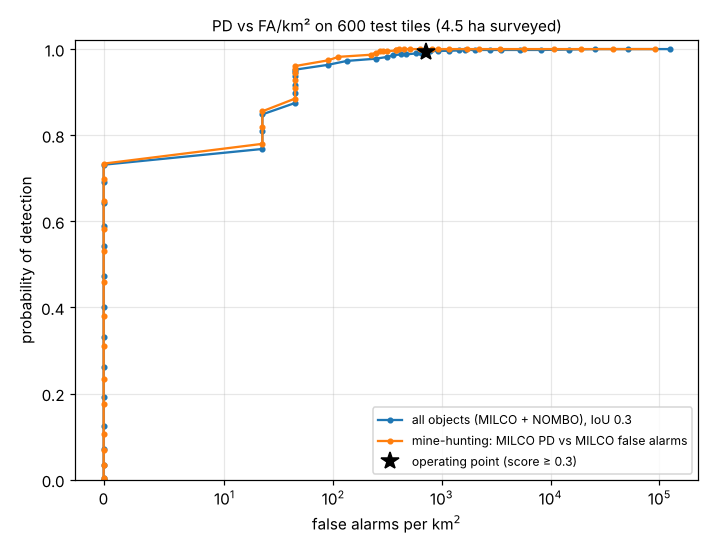
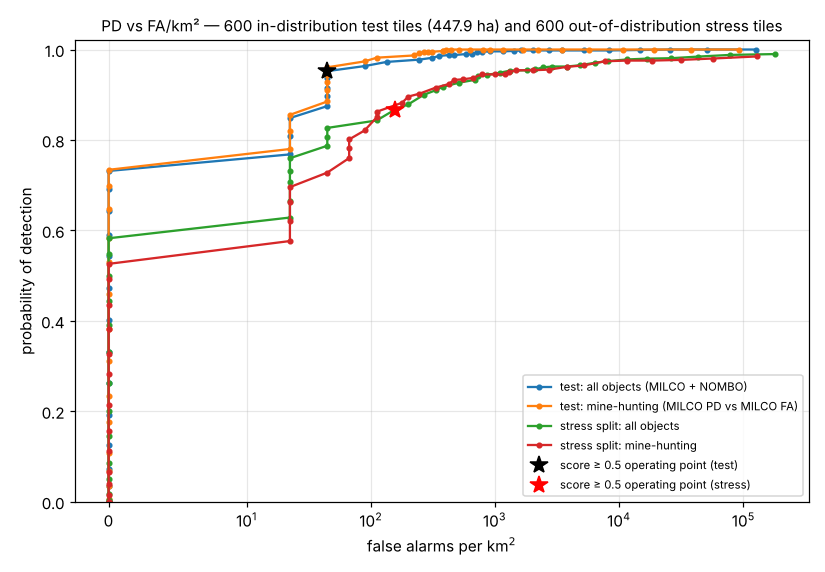
Add 2%-label configs; generalise label-efficiency figure and results tables
Claude-Session: https://claude.ai/code/session_01GVcA4kAFXtfkHbBPyjCxN2

Changed region(s): [[0.0, 0.0309, 0.9846, 0.9891]]

diff --git a/scripts/write_results.py b/scripts/write_results.py
@@ -25,8 +25,6 @@ def fmt(v, nd=3):
 def main():
     base = load("runs/detector_base/eval/metrics.json")
     summ = load("runs/detector_base/summary.json")
-    scratch = load("runs/detector_scratch_10pct/eval/metrics.json")
-    mae10 = load("runs/detector_mae_10pct/eval/metrics.json")
     stream = load("runs/stream/stream_report.json")
     sas = load("assets/sas_demo_metrics.json")
     meta = load("data/sas_synth/dataset_meta.json")
@@ -98,14 +96,21 @@ def main():
         values.update({"hard_map50": f"{hard['mAP@0.50']:.3f}", "hard_pd": f"{op['pd']:.3f}", "hard_fa": f"{op['fa_per_km2']:.0f}",
                        "hard_pd50": f"{hard['pd_fa']['pd'][i]:.3f}", "hard_fa50": f"{hard['pd_fa']['fa_per_km2'][i]:.0f}",
                        "hard_milco_recall": f"{mv['milco_recall']:.3f}", "hard_nombo_rej": f"{mv['nombo_rejection']:.3f}"})
-    if scratch and mae10:
-        lines += ["## Label efficiency (10 % of labels = 240 tiles)", "", "| init | mAP@0.5 | PD @ 0.3 | MILCO recall |", "|---|---|---|---|",
-                  f"| from scratch | {scratch['mAP@0.50']:.3f} | {scratch['operating_point']['pd']:.3f} | {scratch['milco_vs_nombo']['milco_recall']:.3f} |",
-                  f"| MAE pre-trained encoder | {mae10['mAP@0.50']:.3f} | {mae10['operating_point']['pd']:.3f} | {mae10['milco_vs_nombo']['milco_recall']:.3f} |"]
+    le_rows = []
+    for pct in (2, 10):
+        for init, label in (("scratch", "from scratch"), ("mae", "MAE pre-trained encoder")):
+            mm = load(f"runs/detector_{init}_{pct}pct/eval/metrics.json")
+            if mm:
+                le_rows.append((pct, label, mm))
+                values[f"map_{init}{pct}"] = f"{mm['mAP@0.50']:.3f}"
+    if le_rows:
+        lines += ["## Label efficiency (same test split; 2 % = 48 tiles, 10 % = 240 tiles)", "",
+                  "| labels | init | mAP@0.5 | mAP@[.5:.95] | PD @ 0.3 | MILCO recall |", "|---|---|---|---|---|---|"]
+        for pct, label, mm in le_rows:
+            lines.append(f"| {pct} % | {label} | {mm['mAP@0.50']:.3f} | {mm['mAP@[.5:.95]']:.3f} | {mm['operating_point']['pd']:.3f} | {mm['milco_vs_nombo']['milco_recall']:.3f} |")
         if base:
-            lines.append(f"| 100 % labels (reference) | {base['mAP@0.50']:.3f} | {base['operating_point']['pd']:.3f} | {base['milco_vs_nombo']['milco_recall']:.3f} |")
+            lines.append(f"| 100 % | from scratch (reference) | {base['mAP@0.50']:.3f} | {base['mAP@[.5:.95]']:.3f} | {base['operating_point']['pd']:.3f} | {base['milco_vs_nombo']['milco_recall']:.3f} |")
         lines.append("")
-        values.update({"map_scratch10": f"{scratch['mAP@0.50']:.3f}", "map_mae10": f"{mae10['mAP@0.50']:.3f}"})
     if stream:
         lines += ["## Streaming real-time ATR (`runs/stream`)", "",
                   f"* Swath {stream['swath_m2']:.0f} m² rendered as one waterfall, streamed in strips; {stream['tiles']} tiles of 256² with 64 px overlap",

diff --git a/scripts/make_figures.py b/scripts/make_figures.py
@@ -204,25 +204,26 @@ def fig_detections(run_dir, data_root, out, n=8):
 
 def fig_label_efficiency(runs_root, out):
     rows = []
-    for name, label in (("detector_scratch_10pct", "from scratch"), ("detector_mae_10pct", "MAE pre-trained")):
-        mp = os.path.join(runs_root, name, "eval", "metrics.json")
-        if os.path.exists(mp):
-            m = json.load(open(mp))
-            rows.append((label, m["mAP@0.50"], m["operating_point"]["pd"]))
+    for pct in (2, 10):
+        for init, label in (("scratch", "from scratch"), ("mae", "MAE pre-trained")):
+            mp = os.path.join(runs_root, f"detector_{init}_{pct}pct", "eval", "metrics.json")
+            if os.path.exists(mp):
+                m = json.load(open(mp))
+                rows.append((f"{pct} % labels\n{label}", m["mAP@0.50"], m["operating_point"]["pd"]))
     full = os.path.join(runs_root, "detector_base", "eval", "metrics.json")
     if os.path.exists(full):
         m = json.load(open(full))
-        rows.append(("100 % labels (reference)", m["mAP@0.50"], m["operating_point"]["pd"]))
+        rows.append(("100 % labels\n(reference)", m["mAP@0.50"], m["operating_point"]["pd"]))
     if len(rows) < 2:
         return None
-    fig, ax = plt.subplots(figsize=(7, 4.2))
+    fig, ax = plt.subplots(figsize=(9, 4.4))
     xs = np.arange(len(rows))
-    ax.bar(xs - 0.18, [r[1] for r in rows], 0.36, label="mAP@0.5", color="#3b7dd8")
-    ax.bar(xs + 0.18, [r[2] for r in rows], 0.36, label="PD @ score 0.3", color="#f28e2b")
+    ax.bar(xs - 0.18, [r[1] for r in rows], 0.36, label="test mAP@0.5", color="#3b7dd8")
+    ax.bar(xs + 0.18, [r[2] for r in rows], 0.36, label="test PD @ score 0.3", color="#f28e2b")
     for x, r in zip(xs, rows):
-        ax.text(x - 0.18, r[1] + 0.01, f"{r[1]:.2f}", ha="center", fontsize=8); ax.text(x + 0.18, r[2] + 0.01, f"{r[2]:.2f}", ha="center", fontsize=8)
-    ax.set_xticks(xs); ax.set_xticklabels([r[0] for r in rows]); ax.set_ylim(0, 1.05); ax.legend(fontsize=8); ax.grid(axis="y", alpha=0.3)
-    ax.set_title("Label efficiency: 10 % of labels (240 tiles), with / without self-supervised MAE pre-training", fontsize=10)
+        ax.text(x - 0.18, r[1] + 0.01, f"{r[1]:.3f}", ha="center", fontsize=8); ax.text(x + 0.18, r[2] + 0.01, f"{r[2]:.3f}", ha="center", fontsize=8)
+    ax.set_xticks(xs); ax.set_xticklabels([r[0] for r in rows], fontsize=8); ax.set_ylim(0, 1.08); ax.legend(fontsize=8, loc="lower right"); ax.grid(axis="y", alpha=0.3)
+    ax.set_title("Label efficiency on synthetic data: detector trained on 2 % (48 tiles) / 10 % (240 tiles) of labels, with and without MAE pre-training", fontsize=9)
     fig.tight_layout(); fig.savefig(os.path.join(out, "label_efficiency.png"), dpi=110); plt.close(fig)
     mae = os.path.join(runs_root, "mae", "mae_full.pt")
     if os.path.exists(mae):
